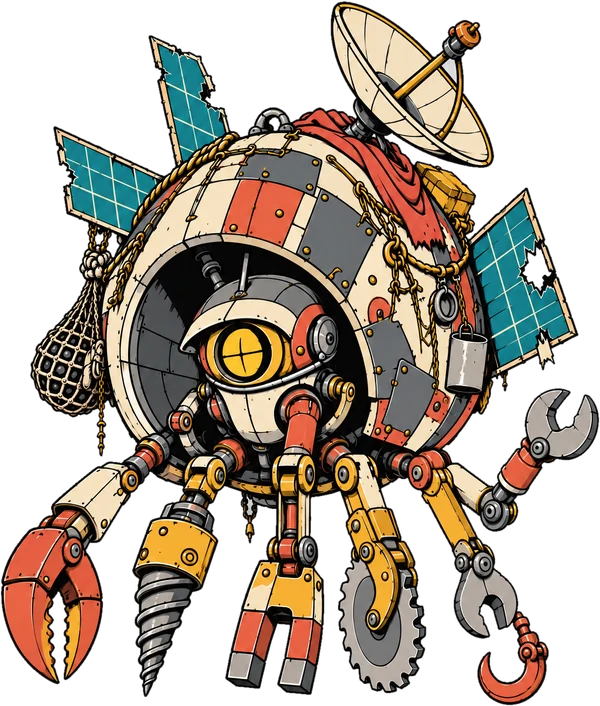
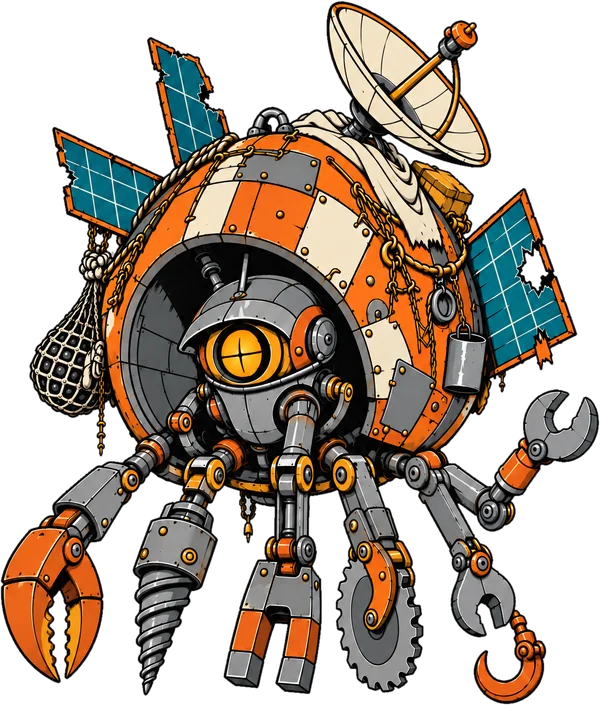
Give each hero its own main colour (Venn, Rook, Ysel art)
All four heroes used the whole shared palette and looked alike on the hero
choice. Venn, Rook and Ysel get recoloured full body and head pictures;
Quill stays. Hero colours are now written down in docs/heroes.md and the
hero-art skill.

Claude-Session: https://claude.ai/code/session_01XFXXMgePZ9xSxNekPRo2Yc

diff --git a/docs/heroes.md b/docs/heroes.md
@@ -4,6 +4,15 @@ Who the four heroes are, how they look and what never changes about them. Their 
 
 Every hero has **fixed marks** that stay the same in every picture, and one **skin slot**: the part a skin swaps. Skins themselves are not designed yet.
 
+**Hero colours.** All heroes share the palette in [style.md](style.md), but each one has its own main colour so they do not look alike on the hero choice (decided 2026-11-18). The main colour covers a large part of the figure, cream is the common thread, the other palette colours are small accents. A hero is never drawn in a single colour. A skin keeps the hero's main colour.
+
+| Hero | Main colour | With |
+|---|---|---|
+| Venn | leaf green tendrils (dark teal shadows) | pink/magenta lure flower, gold pollen, cream suit |
+| Rook | clean rust orange shell tiles | steel grey body and legs, some cream tiles, cream dish |
+| Quill | cream and coral red striped fur | teal ears, copper |
+| Ysel | muted deep violet and night blue robe and wings | soft gold corona pattern and bell, white/cream fur and face |
+
 ## Venn – The Thing in the Suit
 
 *Food, organic items, Toxin.*
@@ -13,10 +22,10 @@ Every hero has **fixed marks** that stay the same in every picture, and one **sk
 **Look.** The human part is only the suit. The plant has no human features at all: no eyes, no face, no hands of its own.
 
 - An old, patched research suit that does not fit what is inside. One arm is swollen tight; the other sleeve hangs half empty and a vine whip slides out of the cuff. Roots and bark push through seams and patches; it stands a little wrong, like a puppet worked from inside.
-- The helmet visor is cracked and packed with tightly coiled rust-red tendrils pressing against the glass, with a cluster of pale seed bulbs among them. Nothing in there looks back.
+- The helmet visor is cracked and packed with tightly coiled green tendrils pressing against the glass, with a cluster of pale seed bulbs among them. Nothing in there looks back.
 - A specimen clamp with a tag is still bolted to the suit's chest from the experiment.
-- The belly of the suit is torn open; rust-red tendrils and pale seed bulbs bulge out of the tear.
-- From the back tank a long thorny stalk arches over the helmet and dangles one large rust-red and bone **lure flower** in front of the visor, like an anglerfish lure. Its poison pollen turns around it as a small flat spiral galaxy (drawn, never glowing).
+- The belly of the suit is torn open; green tendrils and pale seed bulbs bulge out of the tear.
+- From the back tank a long thorny stalk arches over the helmet and dangles one large pink/magenta and cream **lure flower** in front of the visor, like an anglerfish lure. Its poison pollen turns around it as a small flat spiral galaxy (drawn, never glowing).
 
 **Fixed marks:** the cracked visor full of coiled tendrils (no face), the lure flower with its pollen galaxy (decided 2026-11-17; the name patch is now an ordinary detail of the suit).
 **Skin slot:** the suit.
@@ -59,7 +68,7 @@ Every hero has **fixed marks** that stay the same in every picture, and one **sk
 
 - Round fluffy cream moth face with two very large dark compound eyes, no beak; two large feathered mustard antennae.
 - A thick cream fur ruff. Her huge wings fold down around her like a long ceremonial robe that reaches the ground, so no feet show. The wing pattern is a sun corona with eclipse rings in mustard, coral red, navy and cream; the cream wing edges have small singed spots.
-- Under the wings a dark teal robe with a mustard and coral band showing sun and moon phases.
+- Under the wings a night-blue robe with a gold band showing sun and moon phases.
 - Four thin grey insect arms: the upper pair folded in prayer, the lower pair holds a bronze bell and a string of star-shard beads.
 - Star phases can be shown by the wings opening wider (useful for the fight view).
 

diff --git a/docs/style.md b/docs/style.md
@@ -50,11 +50,11 @@ Item pictures are described in `data/item-art.json` (list: [item-art.md](item-ar
 - **Beasts and swarms read at a glance.** A beast is one single big, heavy animal that fills its box. A swarm pet is drawn as one single small animal with room around it, never as a group: several animals in one cell are too small to read (decided 2026-11-16). The swarm idea lives in the name and the rules, not in the picture.
 - **Crafted items show their parts.** A recipe result keeps something recognisable from each ingredient (the Prism Laser is the Laser Pistol with the Crystal Shard on its muzzle), so players can read where it came from.
 - **Hero items speak the hero's language** ([heroes.md](heroes.md)):
-  - *Venn:* the station's botany lab taken over by the plant. Specimen tags, petri dishes, flasks, seed trays, station pipes and crates, the botanist's drone; rust-red tendrils, pale seed bulbs, bark, thorns. Plants never get eyes or faces, only jaws.
+  - *Venn:* the station's botany lab taken over by the plant. Specimen tags, petri dishes, flasks, seed trays, station pipes and crates, the botanist's drone; green tendrils, pink lure flowers, pale seed bulbs, bark, thorns. Plants never get eyes or faces, only jaws.
   - *Rook:* everything is salvage, welded or tied together from wreck parts: mismatched plates, clamps, wire, pieces of satellite housing, spare tool legs. The mustard lantern eye comes back as a lamp or sticker.
   - *Quill:* made by the herd, not by people: woven grass and twigs, shed fur, braided cords, tusk tips, bone, shells, berries and roots. No leashes, whistles or cages. Quill's mechanical items are machines the herd found and made their own: dented salvage padded and tied with weaving and fur.
-  - *Ysel:* relics of her order: dark iron, bent iron rings like her head cage, cracked sun pieces in flat mustard and rust red, bells, rosary stones, heavy cloth with rust-red bands. Heat is drawn as wavy ink lines, never as glow.
-- Accent colour as in the brief; the heroes' own marks (Venn's rust-red tendrils, Rook's mustard eye, Ysel's rust-red bands (rust red is drawn as the brighter coral red now)) may appear next to it.
+  - *Ysel:* relics of her order: dark iron, bent iron rings like her head cage, cracked sun pieces in flat mustard and rust red, bells, rosary stones, heavy violet and night-blue cloth with gold bands. Heat is drawn as wavy ink lines, never as glow.
+- Accent colour as in the brief; the heroes' own colours ([heroes.md](heroes.md): Venn green and pink, Rook rust orange and steel, Quill cream and coral, Ysel violet and gold) may appear next to it.
 
 ## Menu backgrounds (planets)
 

diff --git a/.claude/skills/hero-art/SKILL.md b/.claude/skills/hero-art/SKILL.md
@@ -84,6 +84,12 @@ credits used and left in every result message (`openart_account_get`).
   different planet (Rook's first scene repeated Venn's banded planet). Planets drift to Earth looks; ask for "a
   strange alien planet ..., no blue oceans, no white clouds". To change only the planet, an image2image edit of
   the chosen picture that says "ONLY CHANGE THE PLANET" works; removing it can leave the sky empty.
+- **Every hero has its own main colour** (table in `docs/heroes.md`, Ilja 2026-11-18: with the shared palette
+  all four looked alike on the hero choice). Name it in every prompt, keep cream as the common thread, and add
+  "same moderate saturation, cream highlights, clean, very little grime" so the heroes still look like one set.
+  A hero in a single colour looked flat ("Venn wirkt einfach grün"); give the main colour one or two contrasting
+  accents. Recolouring a finished picture works as image2image ("Recolor this exact character ... only change the
+  colours"); try it cheaply at 1k first.
 - For pictures that get cut out (sheet, full body, head): "Background: flat plain light grey (#c8c8c8),
   nothing else, no floor shadow". A black ink outline on a dark background cannot be cut out cleanly.
 - Composition of the home scene: hero in the upper two thirds; the bottom third calmer, because the hero ring
